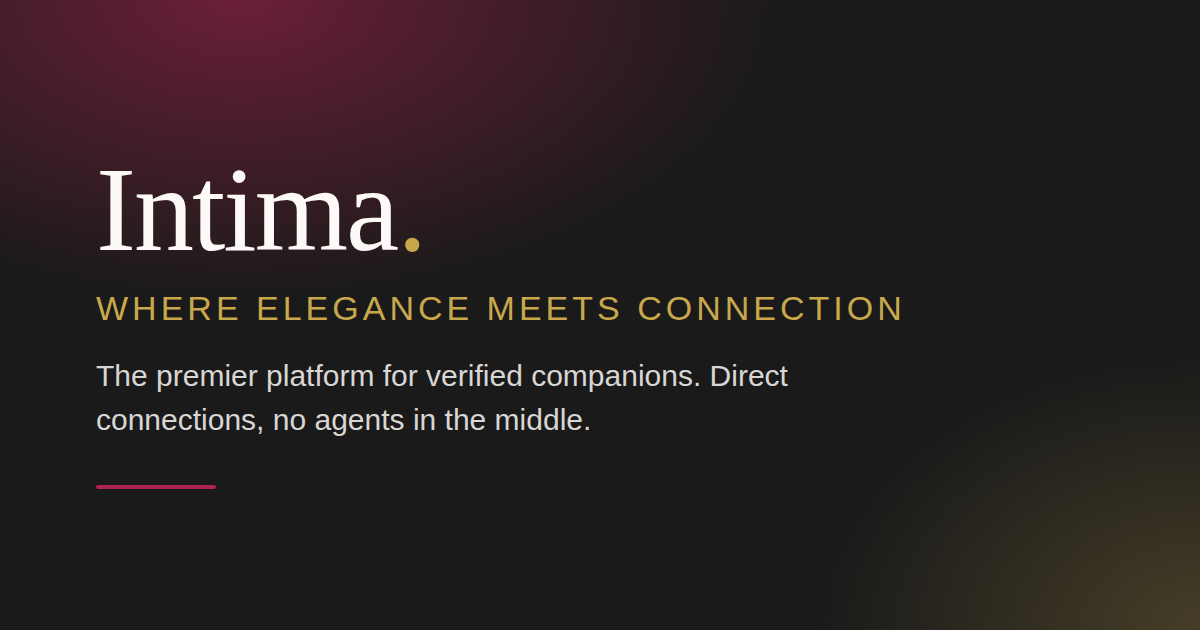
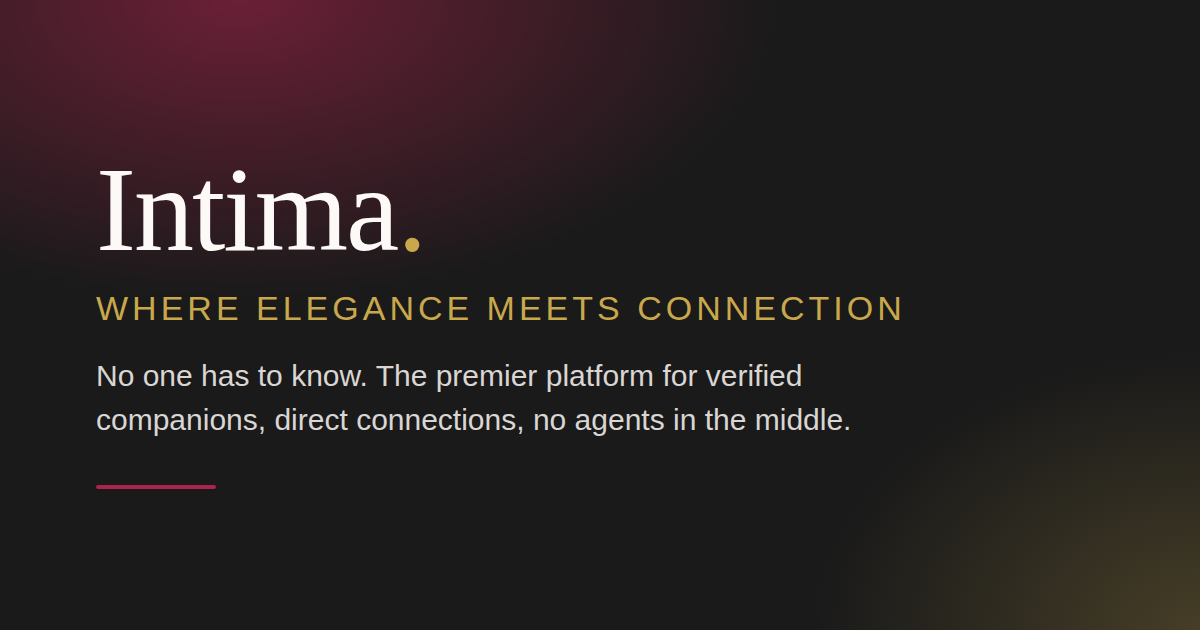
The line is set by the owner: Welcome to Sincity (no one has to know) replaces the elegance tagline on the splash, age gate, auth band, install prompt, SEO tagline and the share card

Changed region(s): [[0.0617, 0.573, 0.7092, 0.6937]]

diff --git a/app/(auth)/layout.tsx b/app/(auth)/layout.tsx
@@ -31,7 +31,7 @@ export default function AuthLayout({
             </Link>
             <div>
               <p className="font-display text-4xl font-medium leading-[1.15] text-white text-balance lg:text-5xl">
-                Where Elegance<br />Meets Connection
+                Welcome to<br />Sincity
               </p>
               <div className="mt-6 h-px w-16 bg-[#C9A84C]/70" />
               <div className="mt-6 space-y-3 text-sm text-white/75">
@@ -65,7 +65,7 @@ export default function AuthLayout({
             Intima<span className="text-[#C9A84C]">.</span>
           </Link>
           <p className="relative mt-1 font-display text-sm italic text-white/75">
-            Where Elegance Meets Connection
+            Welcome to Sincity (no one has to know)
           </p>
         </div>
 

diff --git a/lib/seo.ts b/lib/seo.ts
@@ -10,7 +10,7 @@ import { createClient, type SupabaseClient } from '@supabase/supabase-js';
 export const SITE_URL = 'https://intima-snowy.vercel.app';
 export const SITE_NAME = 'Intima';
 export const SITE_DESCRIPTION = 'The premier platform for verified companions.';
-export const SITE_TAGLINE = 'Where Elegance Meets Connection';
+export const SITE_TAGLINE = 'Welcome to Sincity (no one has to know)';
 
 /** Existing brand asset used for social cards until a dedicated OG image exists. */
 export const OG_IMAGE_PATH = '/og.png';

diff --git a/components/AgeGate.tsx b/components/AgeGate.tsx
@@ -42,7 +42,7 @@ export function AgeGate({ children }: { children: React.ReactNode }) {
           <ShieldCheck aria-hidden className="w-8 h-8 text-primary" />
         </div>
         <h1 className="text-2xl font-bold text-charcoal">Intima</h1>
-        <p className="text-gray-500 mt-1 mb-6">Where Elegance Meets Connection</p>
+        <p className="text-gray-500 mt-1 mb-6">Welcome to Sincity (no one has to know)</p>
         <AgeVerificationModal isOpen onClose={() => {}} onVerify={handleVerify} />
       </div>
     )

diff --git a/components/pwa/InstallPrompt.tsx b/components/pwa/InstallPrompt.tsx
@@ -175,7 +175,7 @@ export function InstallPrompt() {
             className="h-[72px] w-[72px] rounded-[20px] shadow-lg"
           />
           <h2 className="mt-4 font-display text-2xl font-semibold">Get the Intima app</h2>
-          <p className="mt-1 text-sm text-neutral-500">Where Elegance Meets Connection</p>
+          <p className="mt-1 text-sm text-neutral-500">Welcome to Sincity (no one has to know)</p>
         </div>
 
         {mode === 'native' && (

diff --git a/app/layout.tsx b/app/layout.tsx
@@ -116,7 +116,7 @@ export default function RootLayout({
         <div id="app-splash">
           <div className="splash-mark">I</div>
           <div className="splash-word">INTIMA</div>
-          <div className="splash-tag">Where Elegance Meets Connection</div>
+          <div className="splash-tag">Welcome to Sincity (no one has to know)</div>
         </div>
         <SplashDismiss />
         <ErrorReporter />
